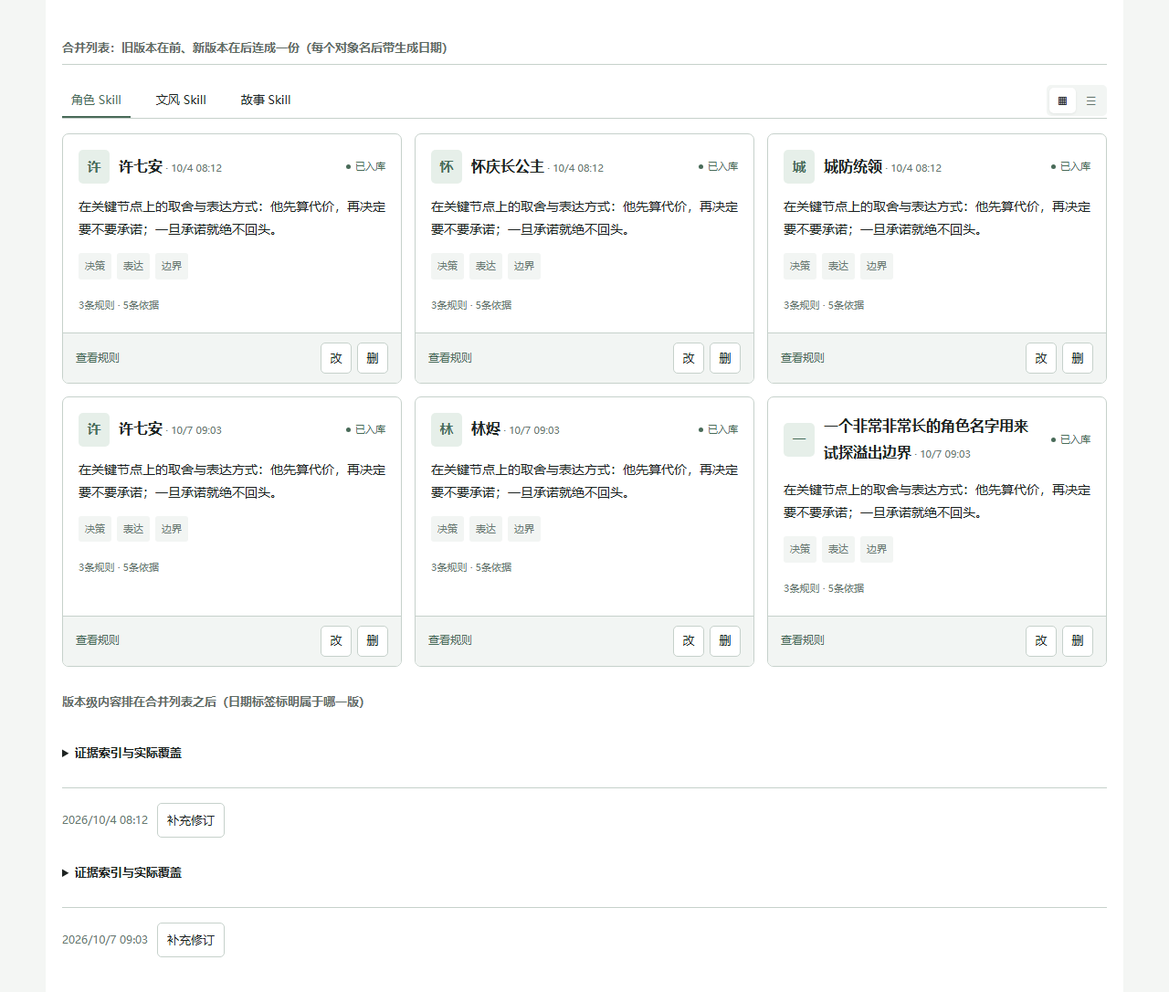
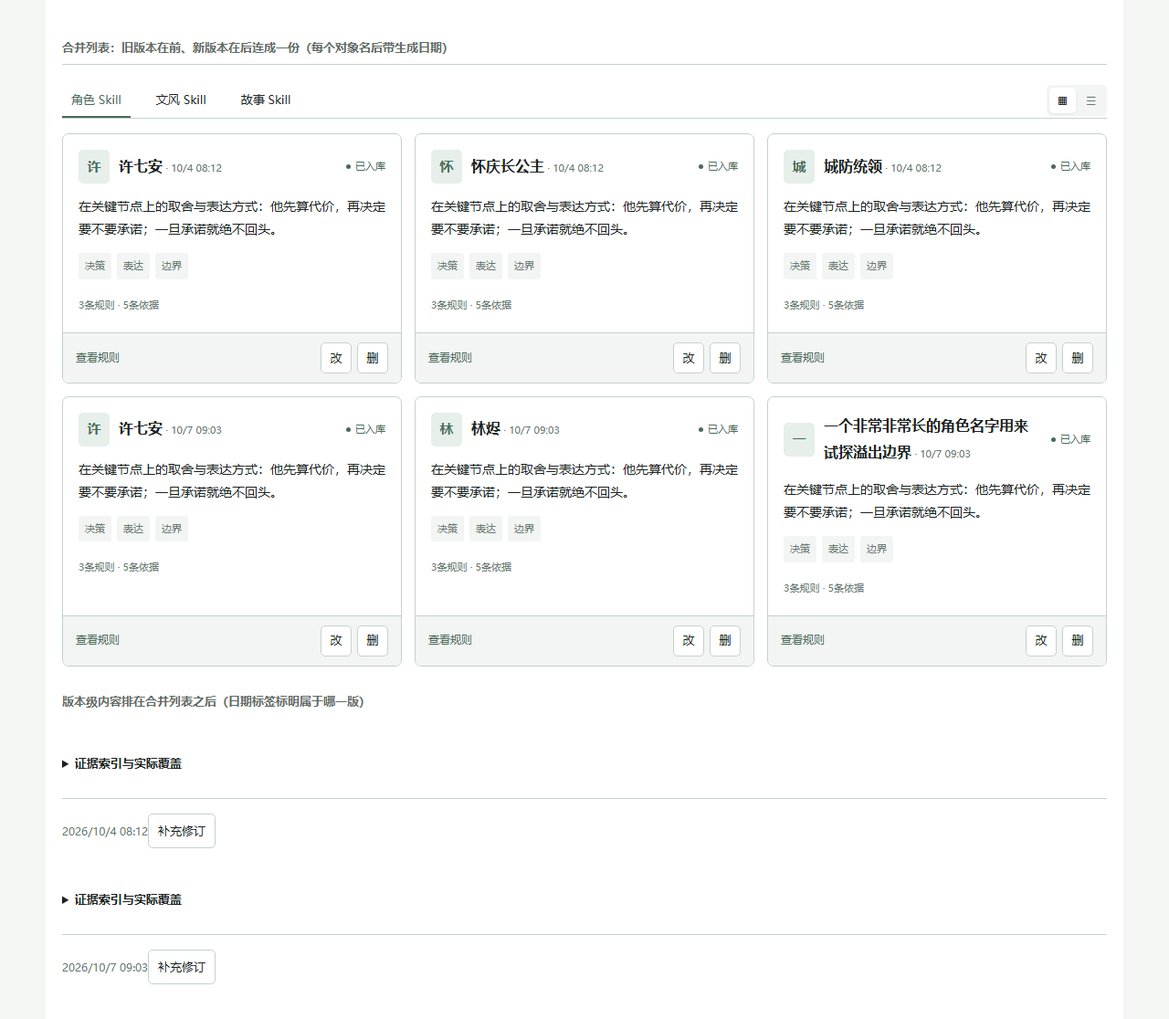
fix(拆书库): 修复独立审查发现的空洞断言、旧版假待办与跨版本草稿丢失
上一提交（34c86fd）由独立对抗审查发现 5 处实质缺陷，全部复现后修复。审查用变异证明
其中两条最关键的守卫是**空洞**的，这是本轮最值得记的部分。

1) 旧版版本永久显示「待确认」（用户可见的错误状态）。
   自动入库显式跳过 origin==="legacy"，且上一轮已删掉整版「确认并加入」入口，所以 legacy 版本的
   confirmedAt 永远是 undefined —— 徽标成了一个用户怎么操作都消不掉的假待办，还与同一张卡片上的
   「旧版导入」自相矛盾（旧 revisionMeta 恰恰把 legacy 排除在「尚未入库」之外）。
   改为 legacy 不渲染状态徽标，来源仍由 .wb-origin-tag 说明。

2) 「删除按钮作用于被点那一版」是空洞用例（数据安全守卫）。
   它点的是 rev-old，而 rev-old 恰好就是 orderedRevisions[0]，于是把实现改成
   「永远删第一版」照样 69/69 全绿。改为点**第二版** rev-new 并断言删除的是它。
   变异复验：改成「永远删第一版」→ 1 红（此前 0 红）。

3) 卡片自身的展开态完全没有被守住。
   原用例只查 .wb-rule-detail（那是 extras 的另一条判定路径），把卡片的 expanded 退化成
   「只看对象名」照样全绿，而界面上 B 版会错误显示「收起规则」——正是复合键要消灭的状态串。
   改为对两张卡都断言 aria-expanded 与按钮文案。变异复验：退化成对象名 → 1 红（此前 0 红）。

4) 点另一版的「补充修订」会静默清空已输入内容（真实数据丢失）。
   旧实现每版本各持一份草稿，合并后我用了单一字段。改为按版本 id 存
   Record<revisionId, string>，并补用例（走开再回来草稿仍在）。
   同一条用例还暴露出：卡片上的笔只改状态、不聚焦；编辑框位于**所有卡片之后**，点它没有任何
   可见反馈。改为由「编辑器是否打开」这一个信号统一驱动 requestAnimationFrame 聚焦，
   卡片笔与版本级按钮走同一条路径。

5) 两个版本的版本级内容零间距、直接贴在一起，日期标签因此失去「分组标题」的意义。加 18px 间距。

顺带修掉审查指出的两处 harness 保真度问题：
- check-panel.mjs 会把陈旧的 dist 构建产物一起注入，从而**掩盖**源文件的 CSS 回归
  （审查实测了漏报与误报两个方向）。现在注入前先钉死新鲜度：源 CSS 比 dist 新就直接失败，
  并明确不做自动构建。变异复验：把源 CSS 时间戳调新 → exit 1。
- 「组内间距 < 查看规则→修订」只在两者同排时才是有效对比（列表视图页脚是 160px 居中列、
  按钮会换行，实测 8px 只是巧合）。改为按 sameRow 过滤，不同排时记为「本项不适用」而不是通过。
- 新增锚点结构性守卫：jsdom 量不到几何，故静态断言 .wb-revision-block 不是绝对定位/零高度/
  display:none，且 data-revision-id 挂在包住卡片网格的 <section> 上（设计文档 §坑 2 此前无人守）。
- 新增「两个版本的版本级内容之间有间距」断言（去掉间距 → 6 个断点全红）。
[…]

diff --git a/src/components/novel/book-analysis-workbench.spec.tsx b/src/components/novel/book-analysis-workbench.spec.tsx
@@ -469,6 +469,26 @@ describe("旧版结果并入页签", () => {
     expect(ids[1]).toBe("rev-characters-new")
   })
 
+  it("旧版导入的卡片不显示「待确认」徽标（它永远不会被自动入库，那是用户消不掉的假待办）", async () => {
+    mocks.old.selectedLibraryBookId = "book-1"
+    mocks.load.mockResolvedValue({ books: [legacyBook] })
+    mocks.revisions.mockResolvedValue([])
+    await act(async () => root.render(<BookAnalysisWorkbench />))
+    const legacyCard = host.querySelector('[data-revision-id^="legacy-chars-"] .wb-skill-card')!
+    // 来源仍要看得见（由 .wb-origin-tag 说明）。这份 fixture 的角色没有结构化规则，
+    // 所以文案是「旧版资料导入 · 无结构化规则」而非「旧版导入」。
+    const originTag = legacyCard.querySelector(".wb-origin-tag")!
+    expect(originTag).not.toBeNull()
+    expect(originTag.textContent).toContain("旧版")
+    /*
+     * 关键：自动入库显式跳过 origin==="legacy"，工作台里也没有「确认并加入」入口，
+     * 所以 legacy 版本的 confirmedAt 永远是 undefined。给它渲染「待确认」＝
+     * 一个用户无论如何操作都无法消除的待办提示，还与同卡片的「旧版导入」自相矛盾。
+     */
+    expect(legacyCard.querySelector(".wb-card-status")).toBeNull()
+    expect(legacyCard.textContent).not.toContain("待确认")
+  })
+
   it("既无人格块也无散文字段的角色显示「无可用资料」而不是「未加入灵魂库」", async () => {
     mocks.old.selectedLibraryBookId = "book-1"
     // 徽标与按钮必须用同一个 publishable 判定：按钮已经点不动了，
@@ -979,6 +999,20 @@ describe("合并版本列表与卡片操作", () => {
     await act(async () => root.render(<BookAnalysisWorkbench />))
     const ids = [...host.querySelectorAll("[data-revision-id]")].map((el) => el.getAttribute("data-revision-id"))
     expect(ids).toEqual(["rev-old", "rev-new"])
+    /*
+     * 光有 id 不够：跳转靠 scrollIntoView，锚点必须是**真实占据布局**的容器。
+     * jsdom 没有排版，量不到几何，所以这里退一步钉住结构：
+     * 锚点必须就是那个包住本版卡片网格的 <section>，而不是 0 高度的空占位元素
+     * （空占位在真实浏览器里滚动位置会是错的；CSS 侧的绝对定位/零高度另由
+     * check-panel.mjs 对源 CSS 做反向断言）。
+     */
+    for (const id of ["rev-old", "rev-new"]) {
+      const anchor = host.querySelector(`[data-revision-id="${id}"]`)!
+      expect(anchor.tagName).toBe("SECTION")
+      expect(anchor.classList.contains("wb-revision-block")).toBe(true)
+      expect(anchor.querySelector(".wb-skill-grid")).not.toBeNull()
+      expect(anchor.querySelectorAll(".wb-skill-card").length).toBeGreaterThan(0)
+    }
   })
 
   it("版本级内容排在合并列表之后，且不在合并列表内部", async () => {
@@ -992,21 +1026,81 @@ describe("合并版本列表与卡片操作", () => {
   it("两个版本都有「许七安」时，点其中一张卡的「查看规则」只展开它自己那一版", async () => {
     mocks.revisions.mockResolvedValue(twoVersionsWithSameCharacter())
     await act(async () => root.render(<BookAnalysisWorkbench />))
-    await act(async () => (inBlock("rev-old", '[aria-label="查看许七安规则"]') as HTMLButtonElement).click())
+    const ruleBtn = (id: string) => inBlock(id, '[aria-label="查看许七安规则"]') as HTMLButtonElement
+    // 先断言两张卡初始都没展开：否则「只有 A 展开」可能只是「谁都没展开」。
+    expect(ruleBtn("rev-old").getAttribute("aria-expanded")).toBe("false")
+    expect(ruleBtn("rev-new").getAttribute("aria-expanded")).toBe("false")
+    await act(async () => ruleBtn("rev-old").click())
     expect(extras("rev-old")!.querySelector(".wb-rule-detail")).not.toBeNull()
     // 关键：新版本里同名角色的规则详情**不能**跟着一起出现。
     expect(extras("rev-new")!.querySelector(".wb-rule-detail")).toBeNull()
+    /*
+     * 还必须断言**卡片自身**的展开态。只查 .wb-rule-detail 是不够的：
+     * 那一处用的是 extras 的 expandedSubject 判定（另一条路径），
+     * 把卡片的 expanded 判定退化成「只看对象名」时它照样通过，
+     * 而界面上 B 版会错误地显示「收起规则」——这正是复合键要消灭的状态串。
+     */
+    expect(ruleBtn("rev-old").getAttribute("aria-expanded")).toBe("true")
+    expect(ruleBtn("rev-old").textContent).toContain("收起规则")
+    expect(ruleBtn("rev-new").getAttribute("aria-expanded")).toBe("false")
+    expect(ruleBtn("rev-new").textContent).toContain("查看规则")
   })
 
-  it("两个版本都有「许七安」时，删除按钮作用于被点那一版", async () => {
+  it("删除按钮作用于被点那一版：点第二版（不是列表第一版）也必须删它", async () => {
     mocks.revisions.mockResolvedValue(twoVersionsWithSameCharacter())
     await act(async () => root.render(<BookAnalysisWorkbench />))
-    await act(async () => (inBlock("rev-old", '[aria-label="删除许七安"]') as HTMLButtonElement).click())
+    /*
+     * 故意点 rev-new——它是合并列表里的**第二**版。曾经这里点的是 rev-old，
+     * 而 rev-old 恰好就是 orderedRevisions[0]，于是「永远删第一版」这种实现也能通过，
+     * 用例对它的命名是空洞的（不可撤销的删除必须真的钉住版本）。
+     */
+    await act(async () => (inBlock("rev-new", '[aria-label="删除许七安"]') as HTMLButtonElement).click())
     const del = [...document.body.querySelectorAll<HTMLButtonElement>('[role="dialog"] button')]
       .find((b) => b.textContent?.trim() === "删除")!
     await act(async () => del.click())
     expect(mocks.removeRevisionItem).toHaveBeenCalledTimes(1)
-    expect(mocks.removeRevisionItem.mock.calls[0][0].revision.id).toBe("rev-old")
+    expect(mocks.removeRevisionItem.mock.calls[0][0].revision.id).toBe("rev-new")
+  })
+
+  it("两个版本的补充修订草稿互不覆盖（点另一版的笔不会清空已输入内容）", async () => {
+    mocks.revisions.mockResolvedValue(twoVersionsWithSameCharacter())
+    await act(async () => root.render(<BookAnalysisWorkbench />))
+    const pencil = (id: string) => inBlock(id, '[aria-label="补充许七安修订要求"]') as HTMLButtonElement
+    const textarea = (id: string) =>
+      extras(id)!.querySelector<HTMLTextAreaElement>('textarea[aria-label="补充修订要求"]')
+    await act(async () => pencil("rev-new").click())
+    expect(textarea("rev-new")).not.toBeNull()
+    await act(async () => {
+      const el = textarea("rev-new")!
+      const setter = Object.getOwnPropertyDescriptor(HTMLTextAreaElement.prototype, "value")!.set!
+      setter.call(el, "给新版本的要求")
+      el.dispatchEvent(new Event("input", { bubbles: true }))
+    })
+    expect(textarea("rev-new")!.value).toBe("给新版本的要求")
+    /*
+     * 同一时刻只开一个编辑器（切到另一版会收起这一版），但草稿必须留在状态里：
+     * 走开再回来还得是原来那段字。所以断言「回来之后仍在」，而不是「同时可见」。
+     */
+    await act(async () => pencil("rev-old").click())
+    expect(textarea("rev-old")).not.toBeNull()
+    expect(textarea("rev-old")!.value).toBe("")
+    expect(textarea("rev-new")).toBeNull()
+    await act(async () => pencil("rev-new").click())
+    expect(textarea("rev-new")!.value).toBe("给新版本的要求")
+    expect(textarea("rev-old")).toBeNull()
+  })
+
+  it("点卡片上的笔会把版本级编辑器打开并聚焦（否则在长列表里毫无反馈）", async () => {
+    mocks.revisions.mockResolvedValue(twoVersionsWithSameCharacter())
+    await act(async () => root.render(<BookAnalysisWorkbench />))
+    expect(extras("rev-new")!.querySelector('textarea[aria-label="补充修订要求"]')).toBeNull()
+    await act(async () => (inBlock("rev-new", '[aria-label="补充许七安修订要求"]') as HTMLButtonElement).click())
+    const textarea = extras("rev-new")!.querySelector<HTMLTextAreaElement>('textarea[aria-label="补充修订要求"]')!
+    expect(textarea).not.toBeNull()
+    // 聚焦走 requestAnimationFrame，得让它先跑一拍。
+    await act(async () => { await new Promise((done) => requestAnimationFrame(() => done(null))) })
+    // 聚焦是承重的：编辑器位于所有卡片之后，不聚焦就没有任何可见反馈。
+    expect(document.activeElement).toBe(textarea)
   })
 
   it("展开概述的状态同样按版本隔离", async () => {

diff --git a/src/components/novel/book-analysis-workbench.tsx b/src/components/novel/book-analysis-workbench.tsx
@@ -300,7 +300,14 @@ function BookWorkspace({ book, projectPath, tasks, onRefresh }: {
   const [expandedCard, setExpandedCard] = useState<{ revisionId: string; subject: string } | null>(null)
   const [expandedOverviews, setExpandedOverviews] = useState<string[]>([])
   const [removing, setRemoving] = useState<{ revisionId: string; subject: string } | null>(null)
-  const [revisingFor, setRevisingFor] = useState<{ revisionId: string; requirements: string } | null>(null)
+  // 哪一版的补充修订编辑器是打开的（只可能有一个，因为同一时刻只有一个编辑框可见）。
+  const [revisingFor, setRevisingFor] = useState<string | null>(null)
+  /*
+   * 补充修订草稿按**版本**分别保存，不能用单一字段：合并列表里用户完全可能先在 A 版写一段、
+   * 又去点 B 版的笔，旧实现（每版本各持一个 state）不会丢，单一字段会把 A 的草稿清空。
+   * 这是合并后真实丢过数据的地方，故以版本 id 为键。
+   */
+  const [revisionDrafts, setRevisionDrafts] = useState<Record<string, string>>({})
   const [activeRequest, setActiveRequest] = useState<AnalysisSkill>("characters")
   // 全版本平铺后不再有「选中版本」：活动跳转改成「切到对应页签 + 等目标版本渲染出来后滚进视野」。
   const [scrollTargetId, setScrollTargetId] = useState<string | null>(null)
@@ -512,7 +519,10 @@ function BookWorkspace({ book, projectPath, tasks, onRefresh }: {
     const target = revisionId ? revisions.find((r) => r.id === revisionId) : undefined
     // 先关弹窗（无论能不能删成），避免留下一个「点了删除但什么都没发生」的悬空状态。
     setRemoving(null)
-    if (!subject || !target) return
+    if (!subject) return
+    // 版本查不到（弹窗打开期间版本被重读掉/作品库变化换了 legacy 的推导 id）时必须说出来：
+    // 静默 return 正是本函数上一版写注释说要避免的那种「点了删除却没反应」。
+    if (!target) { reportError(new Error("这个版本已不在当前列表里，请重新打开结果页后再删除。")); return }
     try {
       await removeWorkbenchRevisionItem({ projectPath, bookPath: book.path, revision: target, subject })
       void reloadRevisions().catch(reportError); onRefresh()
@@ -658,7 +668,7 @@ function BookWorkspace({ book, projectPath, tasks, onRefresh }: {
                   const key = cardKey(revision.id, item.subject)
                   return keys.includes(key) ? keys.filter((k) => k !== key) : [...keys, key]
                 })}
-                onOpenRevise={() => setRevisingFor((current) => current?.revisionId === revision.id ? current : { revisionId: revision.id, requirements: "" })}
+                onOpenRevise={() => setRevisingFor(revision.id)}
                 onRequestRemove={() => setRemoving({ revisionId: revision.id, subject: item.subject })} />)}
               {!items.length && <p className="wb-muted wb-no-results">没有符合条件的成果</p>}
             </div>
@@ -670,11 +680,11 @@ function BookWorkspace({ book, projectPath, tasks, onRefresh }: {
         previous={revisions.find((r) => r.id === revision.parentRevisionId)}
         projectPath={projectPath}
         expandedSubject={expandedCard?.revisionId === revision.id ? expandedCard.subject : null}
-        openRevise={revisingFor?.revisionId === revision.id}
-        requirements={revisingFor?.revisionId === revision.id ? revisingFor.requirements : ""}
+        openRevise={revisingFor === revision.id}
+        requirements={revisionDrafts[revision.id] ?? ""}
         revising={starting || hasActiveTask}
-        onRequirements={(value) => setRevisingFor((current) => current?.revisionId === revision.id ? { revisionId: revision.id, requirements: value } : current)}
-        onToggleRevise={(open) => setRevisingFor((current) => open ? { revisionId: revision.id, requirements: current?.revisionId === revision.id ? current.requirements : "" } : (current?.revisionId === revision.id ? null : current))}
+        onRequirements={(value) => setRevisionDrafts((drafts) => ({ ...drafts, [revision.id]: value }))}
+        onToggleRevise={(open) => setRevisingFor((current) => open ? revision.id : (current === revision.id ? null : current))}
         onCloseRules={() => setExpandedCard(null)}
         onRevise={(requirements) => draft && launch({ ...draft, selectedIds: revision.selectedChapterIds, skills: [revision.skill], requirements: { [revision.skill]: `${revision.requirements}\n补充要求：${requirements}` } }, revision.id)} />)}
       {/* 删除确认框只留一份：一次只可能删一个对象，它需要知道「哪一版的哪个对象」。 */}
@@ -731,7 +741,13 @@ function SkillCard({ revision, item, index, itemDate, expanded, overviewOpen, bo
       <div className="wb-card-heading"><span className="wb-avatar" data-tone={index % 3}>{item.subject.slice(0, 1)}</span>
         {/* 对象自己没有时间戳，取所属版本的 createdAt：同一对象在不同版本里日期不同是对的。 */}
         <h3>{item.subject}{itemDate && <small className="wb-card-date">{` · ${itemDate}`}</small>}</h3>
-        <span className="wb-card-status" data-confirmed={Boolean(revision.confirmedAt)}>{revision.confirmedAt ? "已入库" : "待确认"}</span></div>
+        {/*
+          * 旧版导入的版本**不显示状态徽标**：它永远不会拿到 confirmedAt
+          * （打开页面时的自动入库显式跳过 origin==="legacy"，工作台里也没有「确认并加入」入口——
+          * 整版确认按钮早先已删除），所以给它渲染「待确认」等于永久显示一个用户无法消除的待办。
+          * 来源由卡片下方的 .wb-origin-tag 说明，不必再重复一次。
+          */}
+        {revision.origin !== "legacy" && <span className="wb-card-status" data-confirmed={Boolean(revision.confirmedAt)}>{revision.confirmedAt ? "已入库" : "待确认"}</span>}</div>
       <p className="wb-card-description" data-expanded={item.summary.length <= 100 || overviewOpen}>{item.summary}</p>
       {item.summary.length > 100 && <button className="wb-overview-toggle" aria-label={`展开${item.subject}概述`} aria-expanded={overviewOpen}
         onClick={onToggleOverview}>
@@ -812,11 +828,14 @@ function RevisionExtras({ revision, previous, projectPath, expandedSubject, open
   const items = visibleItems(revision)
   const expandedItem = items.find((item) => item.subject === expandedSubject)
   const revisionDate = formatTimestamp(revision.createdAt, true)
-  // 草稿是每版本一份，随「哪一版在补充修订」一起处理：切版本时不应把上一版的要求带过去。
-  const openRevision = () => {
-    onToggleRevise(true)
-    requestAnimationFrame(() => revisionInput.current?.focus())
-  }
+  /*
+   * 聚焦与滚动只由「编辑器是否打开」这一个信号驱动，不跟着某个按钮走：
+   * 卡片上的笔（结果区）与版本级按钮（这里）都能打开它，而编辑框本身位于**所有**卡片之后，
+   * 若只有本地按钮聚焦，点卡片上的笔就没有任何可见反馈，用户会以为按钮坏了。
+   */
+  useEffect(() => {
+    if (openRevise) requestAnimationFrame(() => revisionInput.current?.focus())
+  }, [openRevise])
   return <section className="wb-revision-extras" data-revision-extras={revision.id}>
     {/* 工具栏只留本版本自己的动作（启用文风）；视图切换已提到结果区顶部统一一份。 */}
     {styleState && <div className="wb-results-tools">
@@ -849,7 +868,7 @@ function RevisionExtras({ revision, previous, projectPath, expandedSubject, open
       <div className="wb-revision-head">
         {/* 版本标题行删掉之后，这里就是唯一能标明「这一组版本级内容属于哪一版」的地方。 */}
         {revisionDate && <span className="wb-revision-date">{revisionDate}</span>}
-        <button aria-expanded={openRevise} onClick={() => openRevise ? onToggleRevise(false) : openRevision()}><PencilLine />补充修订</button>
+        <button aria-expanded={openRevise} onClick={() => onToggleRevise(!openRevise)}><PencilLine />补充修订</button>
       </div>
       {openRevise && <><label className="wb-request"><span>补充修订要求</span><textarea ref={revisionInput} rows={3} value={requirements} onChange={(e) => onRequirements(e.target.value)} maxLength={4000} aria-label="补充修订要求" /></label>
         <button disabled={!requirements.trim() || revising} onClick={() => void onRevise(requirements.trim())?.catch(reportError)}><RefreshCw />生成修订版本</button></>}

diff --git a/docs/workbench-merge-20261007/design.html b/docs/workbench-merge-20261007/design.html
@@ -138,11 +138,43 @@
     <tr><td>时间</td><td>卡片名后已有短格式日期（<code>10/7 09:03</code>）；版本级内容那一组新增一个带年份的日期标签（本轮用户确认要）</td></tr>
     <tr><td>N章</td><td>「证据索引与实际覆盖」里本来就有「已读取N章、M个正文分段」</td></tr>
     <tr><td>M个对象</td><td>合并列表里直接数得出来</td></tr>
-    <tr><td>K项未采纳</td><td>文风详情里本来就有「未采纳的候选（K项）」折叠块</td></tr>
+    <tr><td>K项未采纳</td><td><b>按条目</b>仍可见（<code>workbench-style-details.tsx:14</code> 的「未采纳的候选（K项）」，需先展开该卡规则）；<b>每版本合计</b>不再显示</td></tr>
     <tr><td>旧版导入</td><td>卡片上已有 <code>.wb-origin-tag</code>（「旧版导入」/「旧版资料导入 · 无结构化规则」）</td></tr>
-    <tr><td>尚未入库</td><td>卡片状态徽标已区分「已入库 / 待确认」</td></tr>
+    <tr><td>尚未入库</td><td>卡片状态徽标已区分「已入库 / 待确认」；<b>旧版版本不再显示徽标</b>（见 §7.2）</td></tr>
   </table>
-  因此删掉标题行不会丢失独有信息，只是把同一件事从「一行汇总」改回「各处就地显示」。
+  因此删掉标题行不会丢失独有的**动作性**信息，只是把同一件事从「一行汇总」改回「各处就地显示」。
+  <br><b>诚实修正</b>：初稿把「K项未采纳」也写成「已由文风详情承接」，这不准确 ——
+  文风详情给的是**逐条目**的数量，而标题行给的是**整版合计**，后者现在确实没有任何地方显示。
+  判断：合计值只是概览，逐条目数量信息量更大，且用户明确要求删掉标题行，故不再补回；
+  但这条属于「确实不再可见」，不该被含糊带过。
+</div>
+
+<div class="warn">
+  <b>实施后由独立对抗审查发现并已修复的缺陷（第二轮）</b>
+  <ol>
+    <li><b>旧版版本永久显示「待确认」</b>（用户可见的错误状态）。自动入库显式跳过
+        <code>origin === "legacy"</code>，工作台里也没有整版「确认并加入」入口，所以 legacy 版本的
+        <code>confirmedAt</code> 永远是 undefined —— 徽标就成了一个用户怎么操作都消不掉的假待办，
+        还与同一张卡片上的「旧版导入」自相矛盾（旧 <code>revisionMeta</code> 恰恰把 legacy 排除在
+        「尚未入库」之外）。已改为 legacy 不渲染状态徽标（来源由 <code>.wb-origin-tag</code> 说明）。
+    </li>
+    <li><b>两条最关键的状态隔离用例是空洞的</b>。审查用变异证明：
+        <ul>
+          <li>「删除按钮作用于被点那一版」用例点的是 <code>rev-old</code>，而它恰好就是
+              <code>orderedRevisions[0]</code>，于是「永远删第一版」这种实现照样 69/69 全绿；</li>
+          <li>卡片自身的展开态（<code>aria-expanded</code>）根本没被断言，把键退化成「只看对象名」
+              也照样全绿（界面上 B 版会错误显示「收起规则」）。</li>
+        </ul>
+        已分别改为「点第二版删除」与「对两张卡都断言 <code>aria-expanded</code>」，并逐条重跑变异确认变红。</li>
+    <li><b>点另一版的「补充修订」会静默清空已输入内容</b>（旧实现每版本各持一份草稿，合并后我用了单一字段）。
+        已改成按版本 id 存草稿 <code>Record&lt;revisionId, string&gt;</code>，并补用例。
+        同一条用例还暴露出：卡片上的笔只改状态、不聚焦（编辑器位于所有卡片之后，点它没有任何可见反馈），
+        已改为由「编辑器是否打开」这一个信号统一驱动聚焦。
+    </li>
+    <li><b>两个版本的版本级内容零间距</b>，直接贴在一起，日期标签因此失去「分组标题」的意义。已加 18px 间距。</li>
+    <li><b>harness 会把陈旧的 dist 一起注入</b>，从而掩盖源文件的 CSS 回归（审查实测了漏报与误报两个方向）。
+        已在注入前钉死新鲜度：源 CSS 比 dist 新就直接失败，并明确「不自动构建」。</li>
+  </ol>
 </div>
 
 <h4>日期标签</h4>
@@ -207,6 +239,14 @@
 挪到合并列表之后（它仍在该版本「版本级内容」的最上面，即紧接最后一张卡片）。
 这是「版本级内容统一排到列表后面」的直接结果：工具条是版本范围的动作，不属于任何一张对象卡。
 文风页通常只有一张卡，所以它看起来就像「卡片下面紧跟一个启用按钮」，未做额外处理。</p>
+
+<h3>7.2 两处刻意的行为变更</h3>
+<ul>
+  <li><b>规则详情改成手风琴</b>：<code>expandedCard</code> 是单一槽位，所以在 A 版展开规则后去展开 B 版，
+      A 版会收起（旧实现每版本块各有一个槽位，可同时展开）。合并成一份列表后同时展开两版会并排出现
+      两块长得一样的「XX · 完整规则」，反而更难分辨归属，故保留手风琴语义。</li>
+  <li><b>旧版版本不显示状态徽标</b>：理由见上方第二轮审查记录第 1 条。</li>
+</ul>
 
 </main>
 <footer>拆书库结果面板：版本合并与卡片按钮调整 · 设计文档 · 2026-10-07</footer>

diff --git a/src/components/novel/book-analysis-workbench.css b/src/components/novel/book-analysis-workbench.css
@@ -169,7 +169,11 @@ html[data-ui-test-skin] [data-slot="dialog-content"].wb-import-dialog{width:min(
 /* 网格自带上下 16px 外边距，会与上面的版本间距叠加（外边距还会互相折叠，算出来是 16 而不是 14）；
    合并列表里清掉它，让「版本间距」与「卡片行间距」都由下面这一处决定。 */
 .wb-card-list .wb-skill-grid{margin-top:0;margin-bottom:0}
-.wb-revision-extras{min-width:0}
+/*
+ * 版本级内容：与合并列表、以及彼此之间都要有间距。否则两个版本的「证据索引/补充修订」
+ * 会直接贴在一起，看起来像同一个版本的两段，日期标签也就失去了「分组标题」的作用。
+ */
+.wb-revision-extras{min-width:0;margin-top:18px}
 .wb-revision-date{font-size:12px;color:var(--ui-muted,#687871);white-space:nowrap}
 @container(max-width:900px){.wb-header>.wb-row>.wb-muted{display:none}.wb-skill-grid{grid-template-columns:repeat(2,minmax(0,1fr))}.wb-header .wb-book-picker>button{min-width:130px;max-width:250px}}
 @container(max-width:620px){.wb-header{gap:8px}.wb-header .wb-book-picker>button{min-width:100px;max-width:190px}.wb-header>.wb-row{gap:8px}.wb-skill-grid{grid-template-columns:1fr}.wb-header>.wb-actions>.wb-icon{display:none}.wb-view-switch{margin-left:auto}.wb-range .wb-selection-count{width:100%;margin-left:0}.wb-range input[type=number]{width:76px}.wb-skill-options{gap:6px}.wb-skill-option{padding-inline:7px;gap:5px}.wb-skill-option button{font-size:12px}.wb-demand-toolbar>.wb-primary{margin-left:auto}.wb-skill-grid[data-view=list] .wb-skill-card{display:flex}.wb-skill-grid[data-view=list] .wb-card-footer{border-left:0;border-top:1px solid var(--ui-line,#c6d1cb);justify-content:space-between}}
